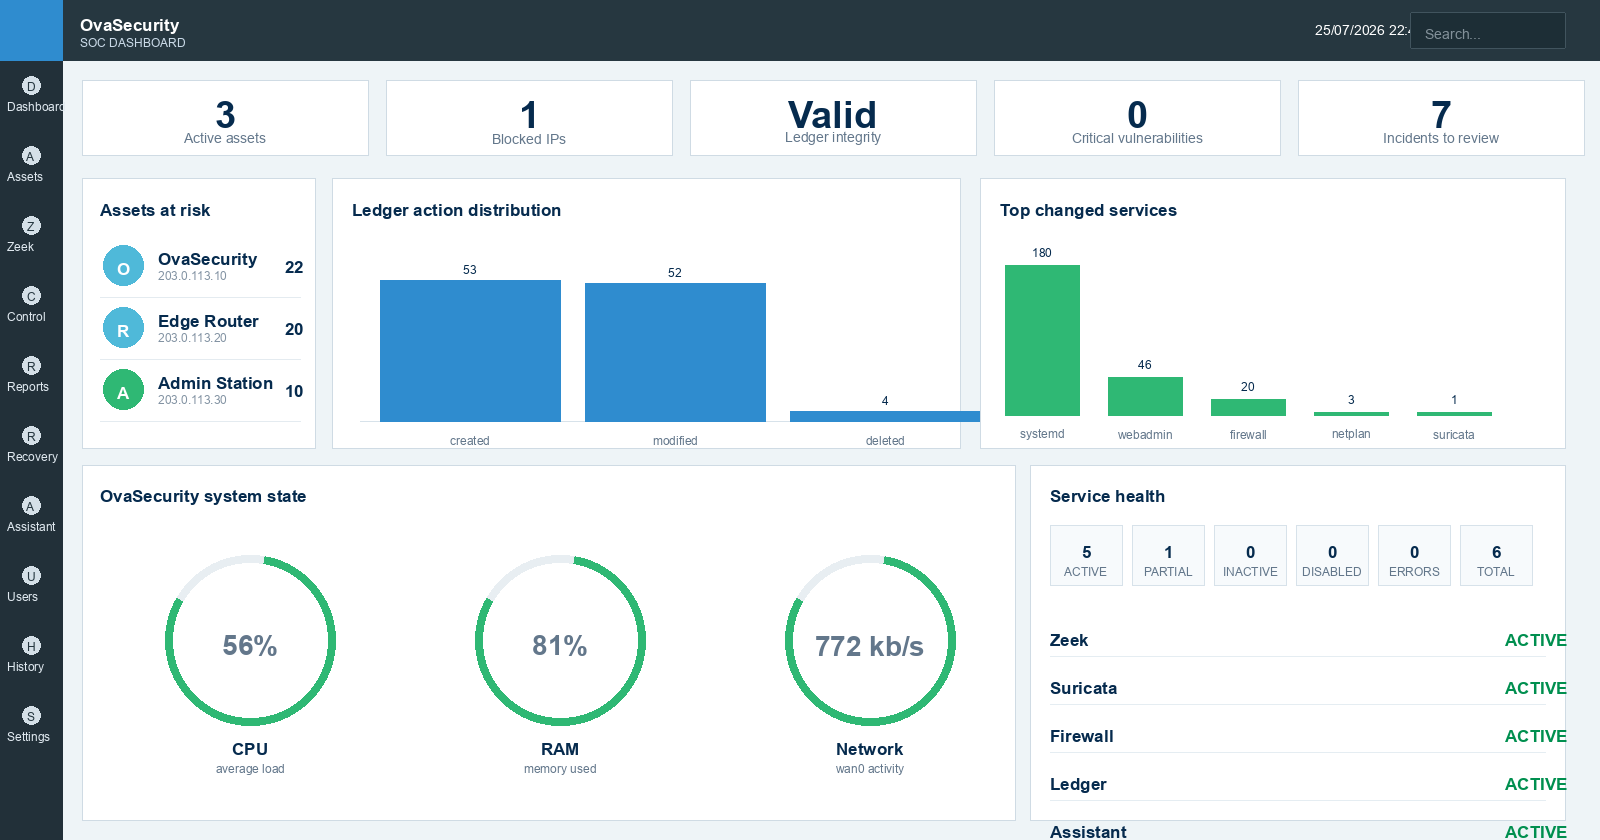
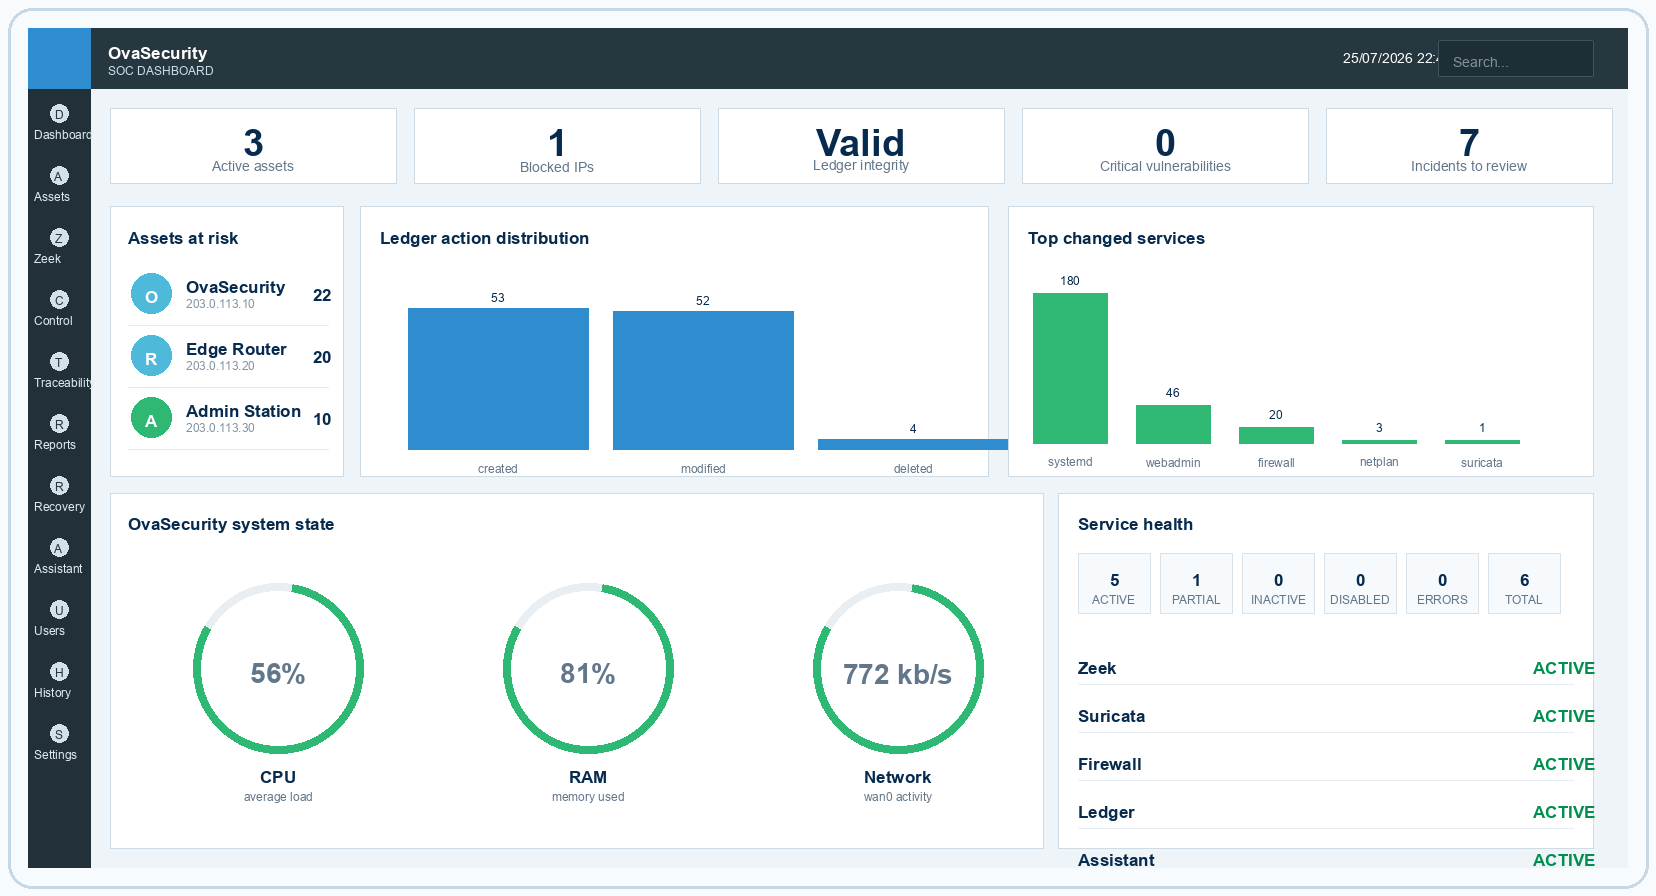
Use sanitized report interface screenshots

diff --git a/README.md b/README.md
@@ -86,6 +86,8 @@ The interface gives operators a direct view of the appliance state, detected equ
 
 ![Ova Security detected equipment](assets/report-diagrams/framed/dashboard-assets.png)
 
+![Ova Security integrity dashboard](assets/report-diagrams/framed/integrity-dashboard.png)
+
 ## Technology role map
 
 The implementation can rely on well-known open-source components while keeping the product value in integration, orchestration, presentation, and evidence handling.
@@ -190,8 +192,6 @@ The assistant retrieves approved project context before producing an answer. It 
 
 The architecture separates raw logs, normalized events, operator actions, and signed evidence. This separation makes the platform easier to audit and safer to operate.
 
-![Ova Security data and evidence model](assets/report-diagrams/framed/integrity-control.png)
-
 ### Main data families
 
 | Data family | Examples | Treatment |
@@ -205,8 +205,6 @@ The architecture separates raw logs, normalized events, operator actions, and si
 ## Log integrity and auditability
 
 The log strategy has two goals: keep the system lightweight and preserve proof. The appliance should reduce disk usage without destroying the chain of evidence.
-
-![Ova Security log integrity workflow](assets/report-diagrams/framed/ledger-chain-architecture.png)
 
 ### Integrity workflow
 
@@ -230,8 +228,6 @@ The log strategy has two goals: keep the system lightweight and preserve proof. 
 ## Assistant and knowledge layer
 
 The assistant is not a replacement for the operator. It is a support layer that helps interpret alerts, explain logs, summarize reports, and propose diagnostic steps from approved project knowledge.
-
-![Ova Security assistant and knowledge architecture](assets/report-diagrams/framed/llm-rag-architecture.png)
 
 ### Assistant capabilities
 
